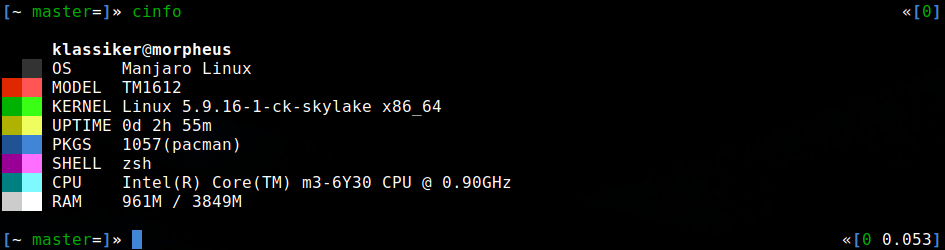
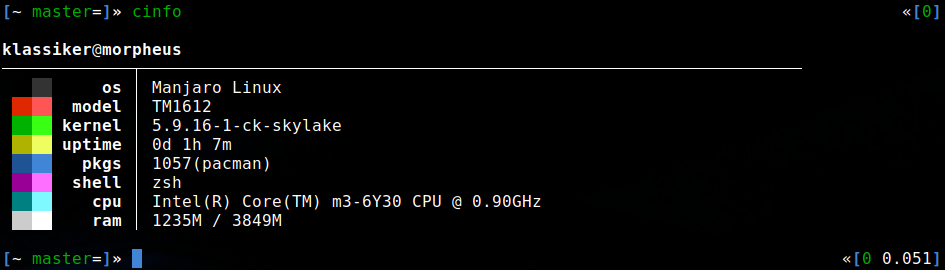
layout changed

diff --git a/cinfo.c b/cinfo.c
@@ -2,7 +2,7 @@
  * path:       /home/klassiker/.local/share/repos/cinfo/cinfo.c
  * author:     klassiker [mrdotx]
  * github:     https://github.com/mrdotx/cinfo
- * date:       2020-12-27T21:38:33+0100
+ * date:       2020-12-28T13:08:35+0100
  */
 
 #include <stdio.h>
@@ -44,7 +44,7 @@ void detectDistro() {
 }
 
 void detectKernel() {
-    FILE *pathKernel = popen("uname -rsm", "r");
+    FILE *pathKernel = popen("uname -r", "r");
 
     fscanf(pathKernel, "%[^\n]s", kernel);
     fclose(pathKernel);
@@ -75,24 +75,29 @@ void detectPackages() {
 }
 
 void detectCPU() {
-    FILE *cpuinfo = popen("lscpu \
-            | grep 'Modellname:' \
-            | sed -r 's/Modellname:\\s{1,}//'", "r");
+    FILE *cpuinfo = popen("cat /proc/cpuinfo \
+            | grep 'model name	:' \
+            | sed -r 's/model name	:\\s{1,}//'", "r");
 
     fscanf(cpuinfo, "%[^\n]s", cpu);
     fclose(cpuinfo);
 }
 
 void detectRAM() {
-    FILE *used = popen("vmstat -s -S M \
-            | grep ' benutzter Speicher'", "r");
-    FILE *total = popen("vmstat -s -S M \
-            | grep ' Gesamtspeicher'", "r");
+    FILE *total = popen("cat /proc/meminfo \
+            | grep 'MemTotal:' \
+            | sed 's/MemTotal://'", "r");
+    FILE *used = popen("cat /proc/meminfo \
+            | grep 'MemFree:' \
+            | sed 's/MemFree://'", "r");
 
-    fscanf(used, "%d", &ramused);
     fscanf(total, "%d", &ramtotal);
-    fclose(used);
+    fscanf(used, "%d", &ramused);
     fclose(total);
+    fclose(used);
+
+    ramtotal = (ramtotal/1024);
+    ramused = (ramused/1024);
 }
 
 void detectUptime() {
@@ -131,23 +136,26 @@ void getSysinfo() {
 
 int main() {
     getSysinfo();
-    printf("\n%s     %s%s@%s%s%s\n", \
+    printf("\n");
+    printf("%s%s%s@%s%s%s\n", \
             bold, user, reset, bold, host, reset);
-    printf("%s██%s██%s OS     %s\n", \
-            black, bold, reset, os);
-    printf("%s██%s██%s MODEL  %s %s\n", \
-            red, bold, reset, model, modelversion);
-    printf("%s██%s██%s KERNEL %s\n", \
-            green, bold, reset, kernel);
-    printf("%s██%s██%s UPTIME %dd %dh %dm\n", \
-            yellow, bold, reset, day, hour, min);
-    printf("%s██%s██%s PKGS   %d(pacman)\n", \
-            blue, bold, reset, pacman);
-    printf("%s██%s██%s SHELL  %s\n", \
-            magenta, bold, reset, shell);
-    printf("%s██%s██%s CPU    %s\n", \
-            cyan, bold, reset, cpu);
-    printf("%s██%s██%s RAM    %dM / %dM\n\n", \
-            white, bold, reset, ramused, ramtotal);
+    printf("─────────────┬──────────────────────────────────────────────────────────────────\n");
+    printf(" %s██%s██%s%s     os %s│ %s\n", \
+            black, bold, reset, bold, reset, os);
+    printf(" %s██%s██%s%s  model %s│ %s %s\n", \
+            red, bold, reset, bold, reset, model, modelversion);
+    printf(" %s██%s██%s%s kernel %s│ %s\n", \
+            green, bold, reset, bold, reset, kernel);
+    printf(" %s██%s██%s%s uptime %s│ %dd %dh %dm\n", \
+            yellow, bold, reset, bold, reset, day, hour, min);
+    printf(" %s██%s██%s%s   pkgs %s│ %d(pacman)\n", \
+            blue, bold, reset, bold, reset, pacman);
+    printf(" %s██%s██%s%s  shell %s│ %s\n", \
+            magenta, bold, reset, bold, reset, shell);
+    printf(" %s██%s██%s%s    cpu %s│ %s\n", \
+            cyan, bold, reset, bold, reset, cpu);
+    printf(" %s██%s██%s%s    ram %s│ %dM / %dM\n", \
+            white, bold, reset, bold, reset, ramused, ramtotal);
+    printf("\n");
     return 0;
 }
